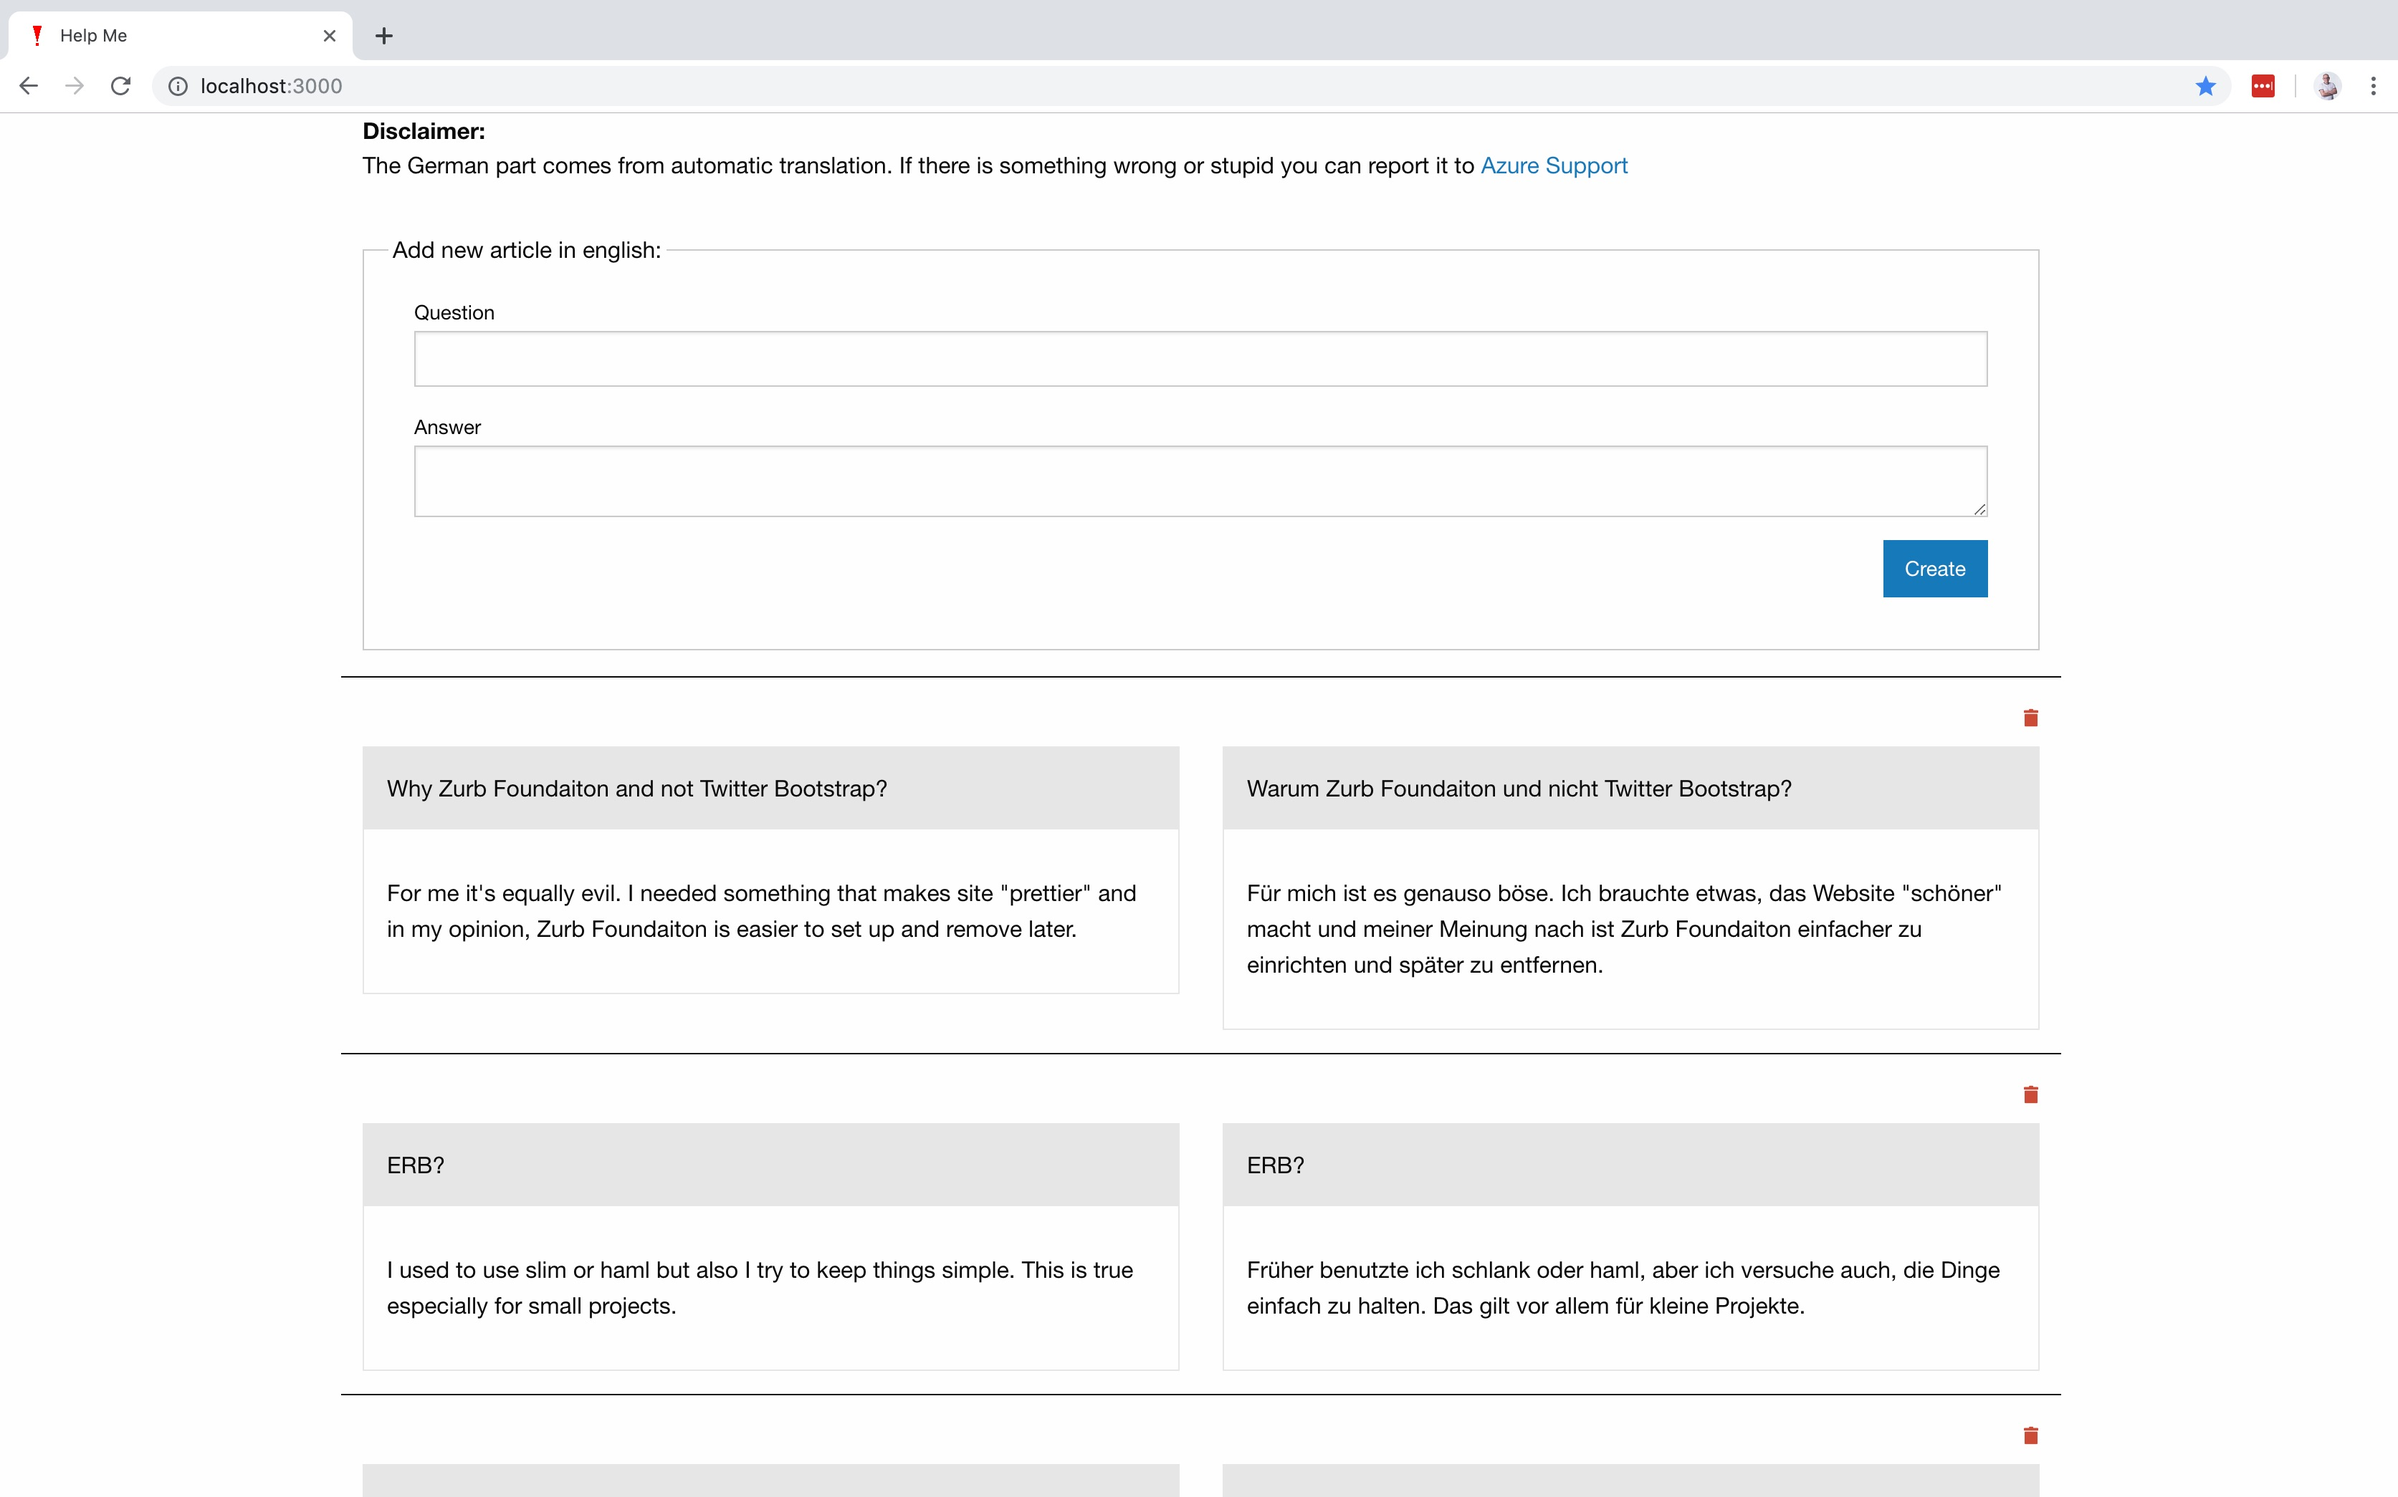
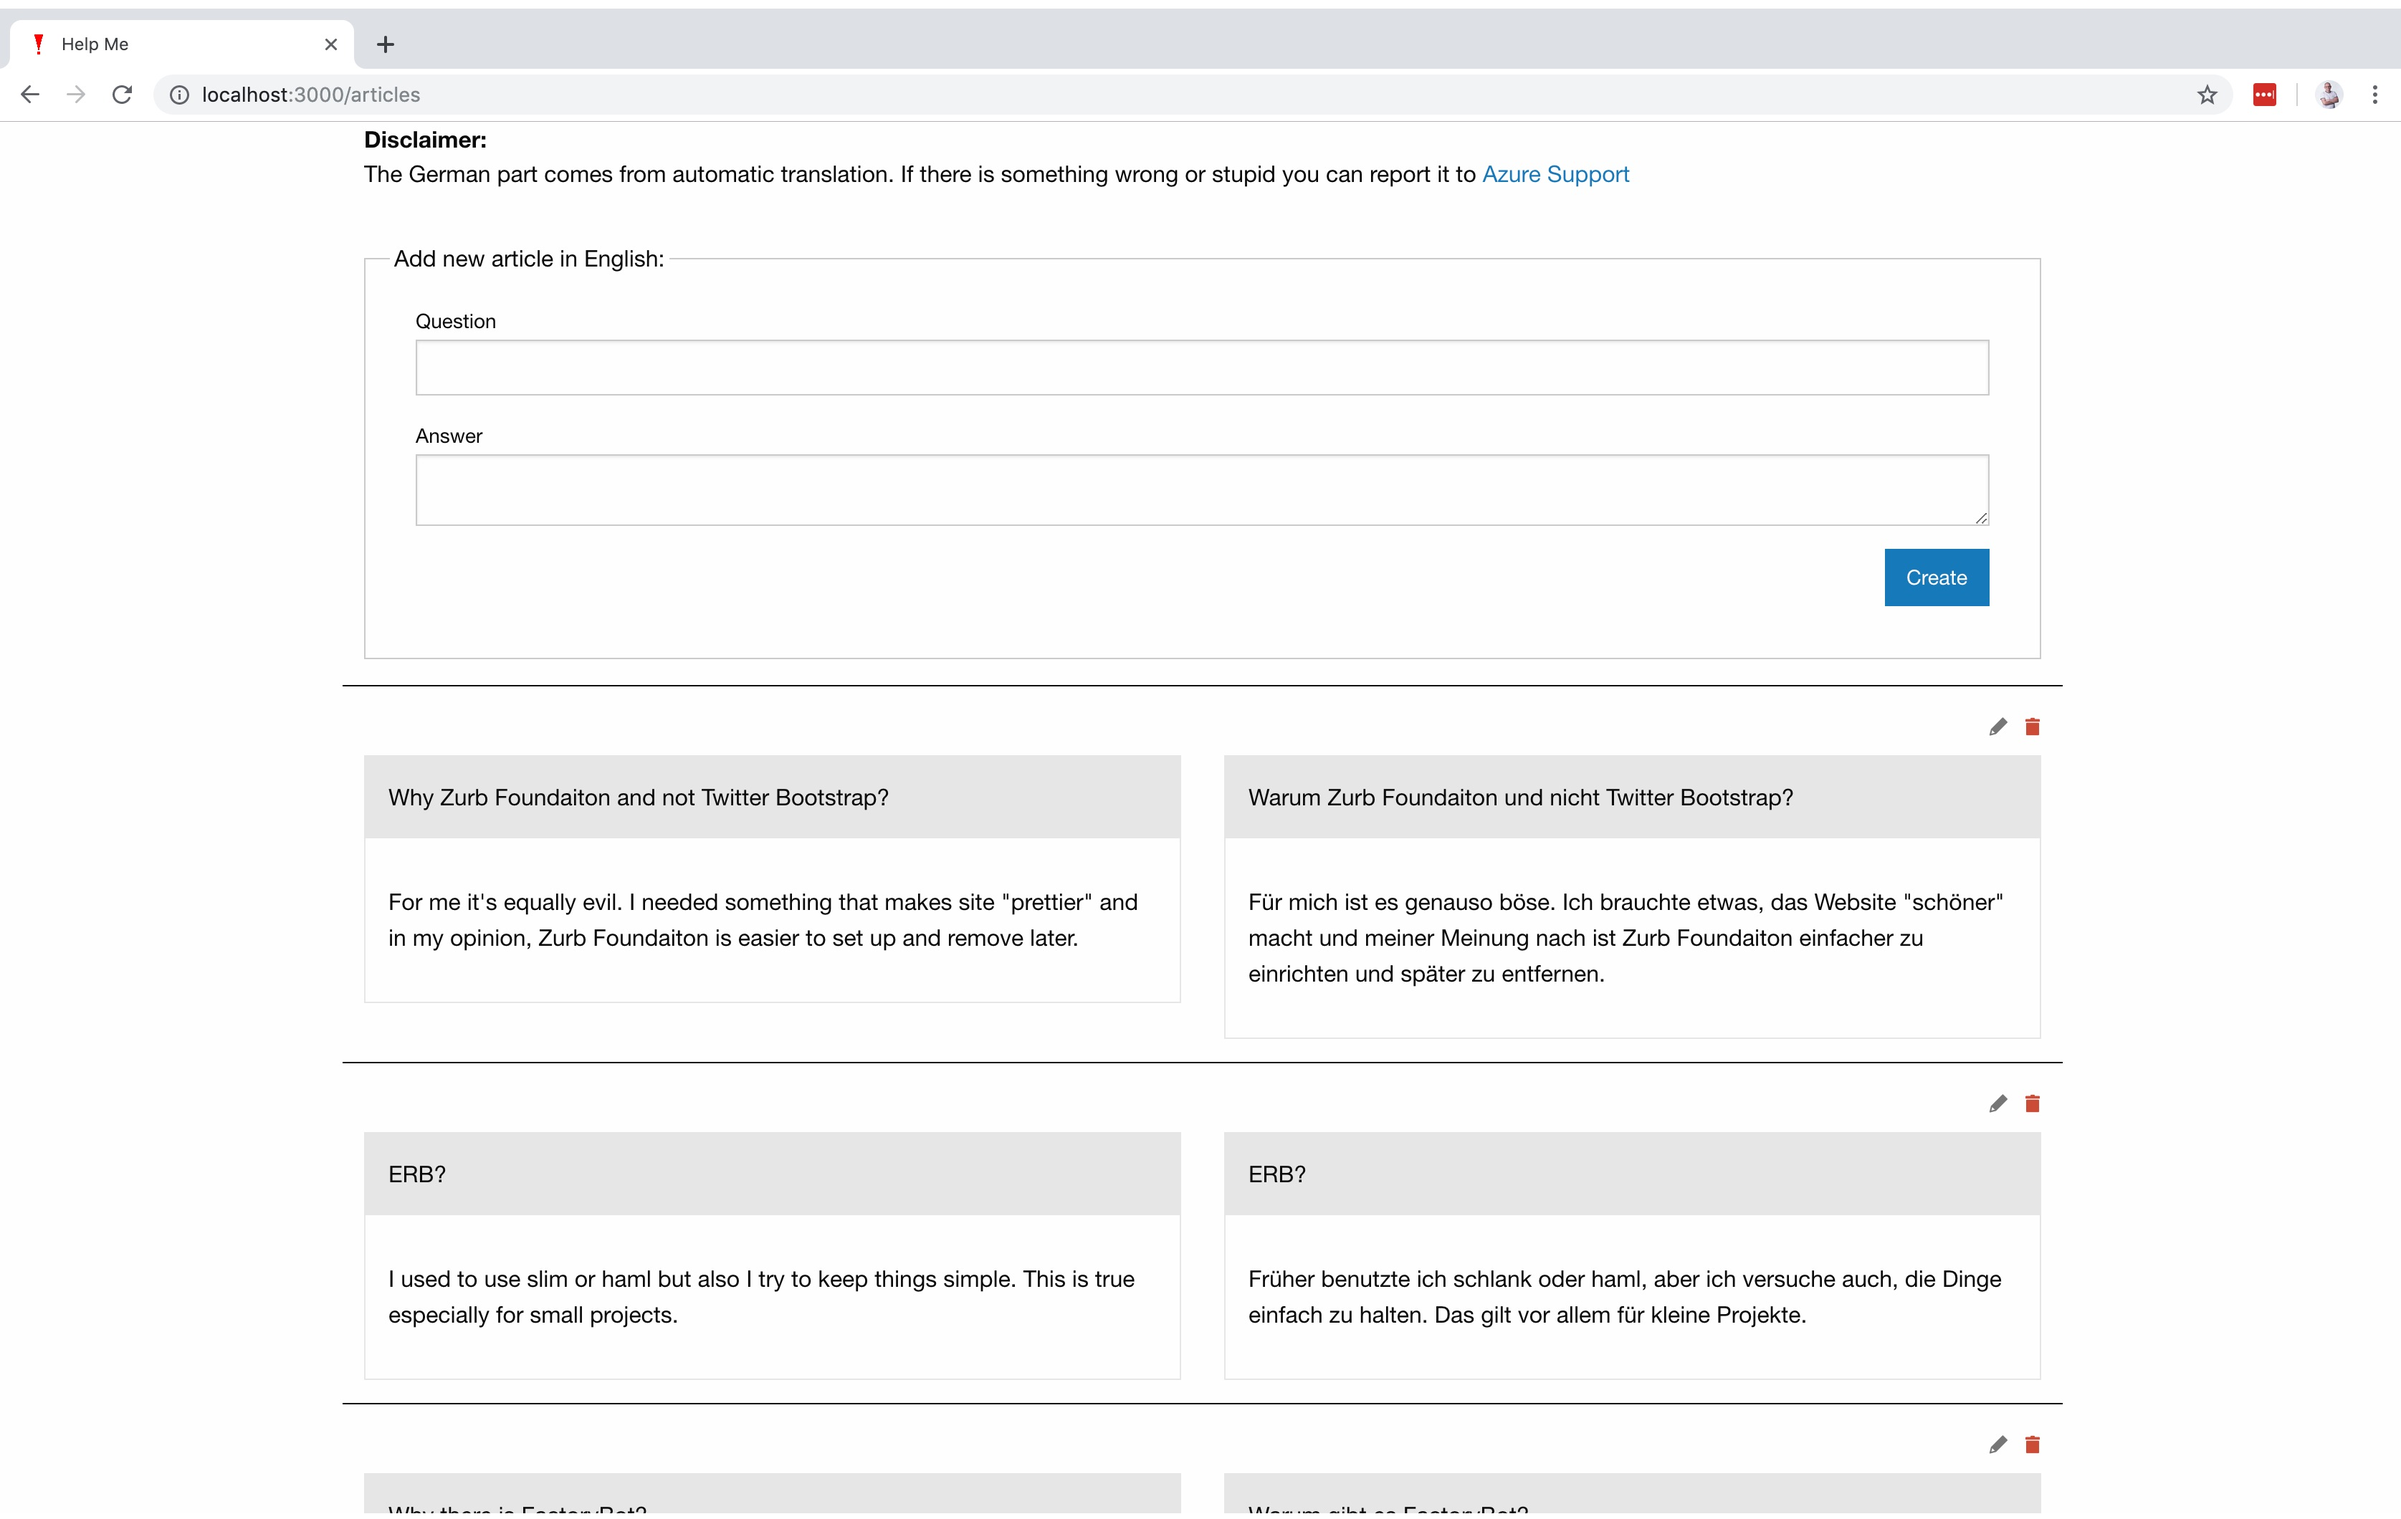
Complete the readme file

diff --git a/README.md b/README.md
@@ -4,6 +4,8 @@
 
 ![Help Me app screenshot](doc/Help_Me.jpg)
 
+To add more articles, please use the form on the top of the page. A new piece will be shown just below the form and will be translated automatically without page reload so that you can add more articles without any seamlessly. To edit or remove an item click the proper icon on the right.
+
 ## Development [![CircleCI](https://circleci.com/gh/rlisowski/help_me/tree/master.svg?style=svg)](https://circleci.com/gh/rlisowski/help_me/tree/master) [![Maintainability](https://api.codeclimate.com/v1/badges/f5dbd3d9dbddc65047e1/maintainability)](https://codeclimate.com/github/rlisowski/help_me/maintainability)
 
 Install [Docker](https://www.docker.com/) and execute `$ MICROSOFT_TRANSLATOR_API_KEY='KEY' docker-compose up` in terminal emulator to run the app locally. Visit http://localhost:4000 to see it.
